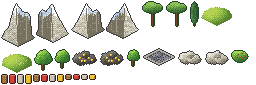
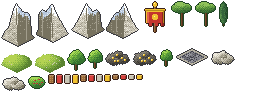
Add era advancement and era-gated buildings
- The Forum gets an Advance button (Progredere): costs 300 wood, 300 food,
  100 stone; needs population 15, 3 Casae, a working Ager and a Horreum;
  takes 45s. Hover shows the cost and a [met]/[needed] checklist. Banner
  shows progress, then flips to AETAS II / RES PVBLICA
- Paved roads (Via) and the Domus unlock in Era II (Via Appia, 312 BC):
  before that their buttons are greyed with a gold "II" badge and a tooltip,
  and placing them is refused ("Nondum licet")
- Data-driven: Defs.ERA_ADVANCE (cost/time/needs per era), "era" on buildings,
  Defs.ROAD_ERA. Eras III-V have no advance defined yet
- New advance icon (a Roman standard); art sheets re-exported (139 sprites)
- Design doc updated to match

diff --git a/docs/DESIGN.md b/docs/DESIGN.md
@@ -37,7 +37,7 @@ historians draw the end points differently.
 | V | Dominatus | The Late Empire | 284–476 AD | Diocletian's reforms, Constantine (Christianity legalised 313, Constantinople 330), the permanent split in 395, Rome sacked in 410 and 455, last Western emperor deposed 476. (The Eastern half lasted until 1453; out of scope.) |
 
 The era shows in a banner at the top centre of the screen: `AETAS I` over `REGNVM`, with the English
-name and dates on hover. **Built** (display only; see Advancement for what's still to do).
+name and dates on hover, and a progress readout while an advance is under way. **Built.**
 
 ### What each era is for (flavour and content)
 
@@ -54,7 +54,8 @@ name and dates on hover. **Built** (display only; see Advancement for what's sti
 ## Advancing through eras — decided: option A
 
 The player advances at the **Forum** with an **Advance** button (Latin: *Progredere*), as in Age of
-Empires. Advancing costs resources and has prerequisites, and takes some time. New buildings and
+Empires. **Built for Era I → II** (the Forum's command bar; hover the button for the cost and a
+checklist of what is still missing). Advancing costs resources and has prerequisites, and takes some time. New buildings and
 features unlock only once you have reached the era.
 
 Why this over the alternatives (automatic milestones, or "prestige" points): it is familiar,
@@ -64,7 +65,7 @@ predictable, and makes use of the buildings we already have.
 
 | To reach | Cost | Prerequisites | Time |
 |---|---|---|---|
-| II Res Publica | 300 food, 300 wood, 100 stone | population 15; 3 Casae; a working Ager; a Horreum | ~45 s |
+| II Res Publica | 300 food, 300 wood, 100 stone | population 15; 3 Casae; a working Ager; a Horreum | 45 s — **built** (`Defs.ERA_ADVANCE`) |
 | III Imperium Populi Romani | *open* | *open* — should lean on Era II content: Domus, paved road tiles, Curia | |
 | IV Principatus | *open* | | |
 | V Dominatus | *open* — probably triggered by the Crisis of the Third Century rather than bought | | |
@@ -74,8 +75,9 @@ predictable, and makes use of the buildings we already have.
 - **Era I (Regnum):** Forum, Casa, Ager, Horreum, dirt roads (these wear into the ground from foot
   traffic and need no building).
 - **Era II (Res Publica):** the stone **Domus** and **paved roads (Via)** are locked until Era II. The
-  historical hook is the Via Appia in 312 BC. *(Today the game still offers both from the start;
-  gating them is the next piece of work.)*
+  historical hook is the Via Appia in 312 BC. **Built:** while locked, their buttons show greyed with the
+  unlocking era's numeral (II) and a tooltip saying so; placing one is refused (*Nondum licet*, "not yet
+  allowed"). The Domus's `era` and `Defs.ROAD_ERA` set the gates.
 - Later eras: see the content table above.
 
 A full **tech tree** (upgrades such as better axes or farming) is a separate, larger piece of work;
@@ -93,6 +95,8 @@ era gating of buildings comes first.
   The Forum trains villagers.
 - **Roads:** dirt roads wear into the ground where villagers walk (faster, preferred by pathfinding);
   **paved roads** can be laid by dragging, paid for in stone and built tile by tile by villagers.
+- **Eras:** the banner, the Forum's Advance button (Era I → II), and era-gated buildings (Domus and paved
+  roads unlock in Era II).
 - **Interface:** Latin text with English tooltips; icon command bar; resource panel for a clicked
   deposit; era banner.
 - **Art pipeline:** sprites are drawn in code (`art.gd`) and baked into editable PNG sheets and a Godot

diff --git a/assets/art/README.md b/assets/art/README.md
@@ -6,7 +6,7 @@ LibreSprite...) and the game picks the changes up on the next run, with no code 
 
 | Sheet | Contents |
 |---|---|
-| `scenery.png` | oak 0-2, pine 0-1, cypress, mountain 0-3, hill 0-1, berries, stone 0-1, gold 0-1, carried packs, `via` (paving tile, the road icon) |
+| `scenery.png` | oak 0-2, pine 0-1, cypress, mountain 0-3, hill 0-1, berries, stone 0-1, gold 0-1, carried packs, `via` (paving tile, the road icon), `advance` (a Roman standard: the era-advance icon) |
 | `buildings.png` | town_center (Forum), house (Domus), storehouse (Horreum), hut (Casa, 1x1), farm:0-3 (Ager, a 3x3 wheat field: ripe, half-harvested, stubble, freshly sown) |
 | `villagers.png` | grid, 22x24 cells. One row per animation and direction (idle, walk, chop, mine, forage, till, build; each front then back), one column per frame. Villagers always face right; the game mirrors them. |
 | `ground_tiles.png` | 32x16 diamond tiles, one row per terrain (deep water, shallows, beach, grass, forest floor, hill slope, mountain rock), 4 variants each |
